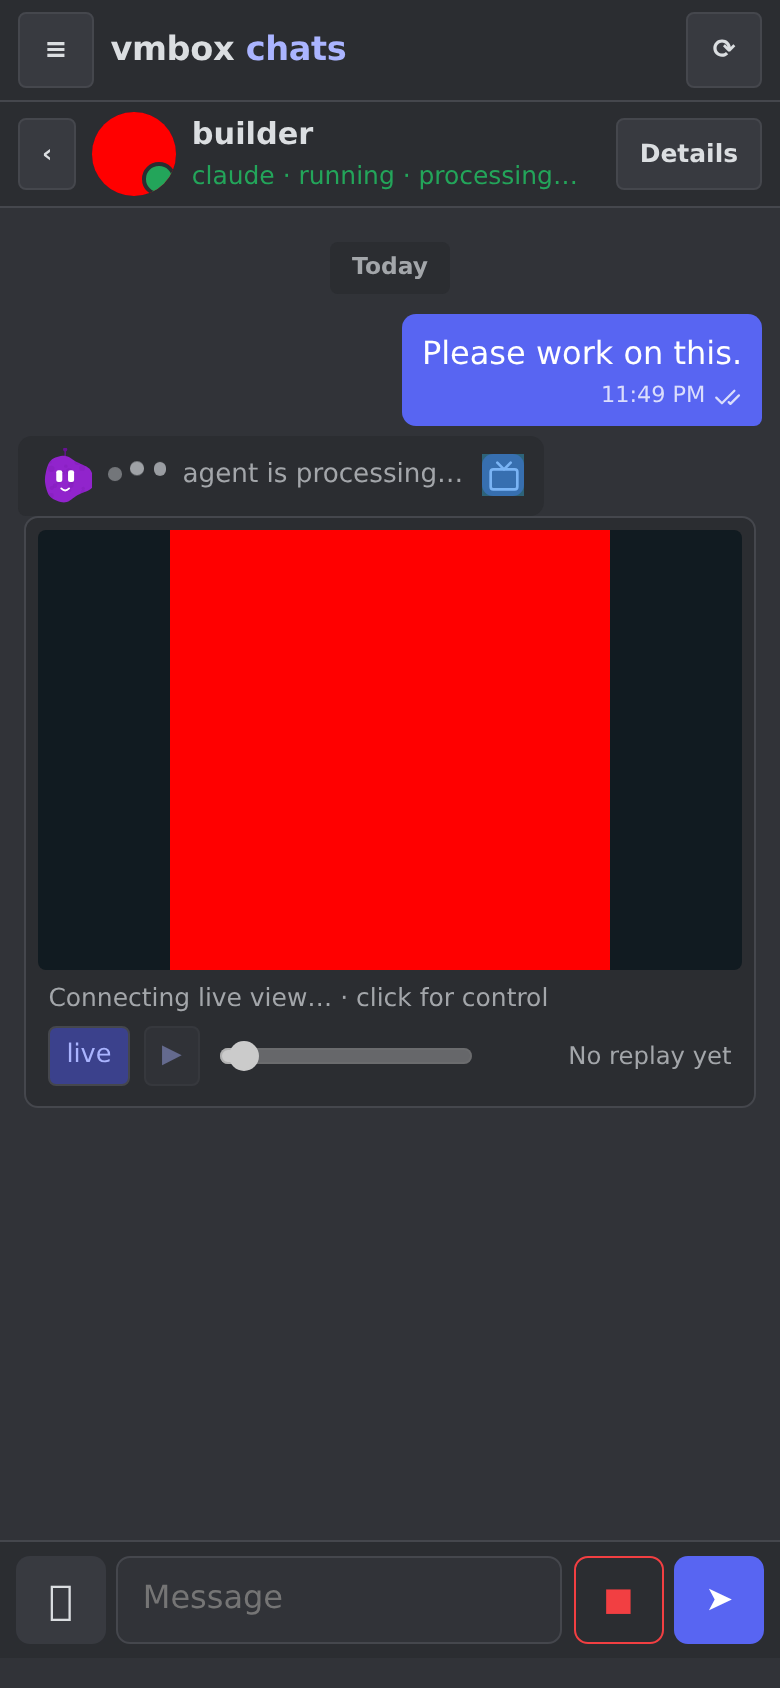
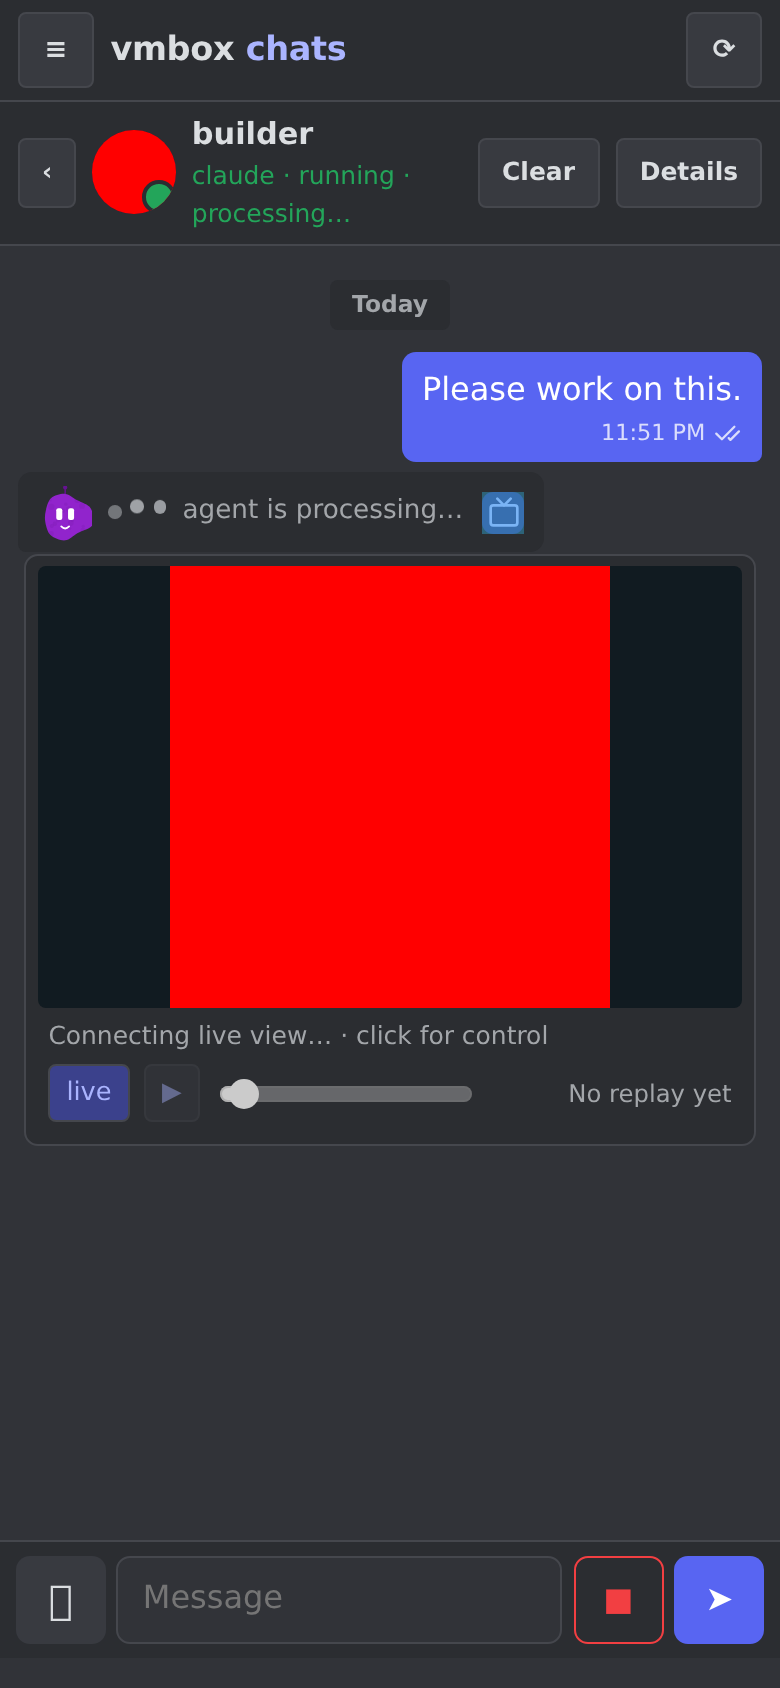
Real label/value lists and a mobile Clear button
Render the Runtime and Activity rows as a single-column definition list
(label left, value right) instead of a grid of cards, and show the Clear
context button next to Details in the phone header.

diff --git a/internal/controller/web/chat.css b/internal/controller/web/chat.css
@@ -263,11 +263,12 @@ body{max-width:none;margin:0;padding:0;height:100%;
 .inspect-quick button:hover,.inspect-quick a:hover{background:var(--accent-soft);border-color:var(--accent)}
 .inspect-block{grid-column:1 / -1;margin-top:.9rem;min-width:0}
 .inspect-block h3{margin:0 0 .45rem;font-size:.7rem;font-weight:800;letter-spacing:.09em;text-transform:uppercase;color:var(--ink-soft)}
-.inspect-rows{display:grid;grid-template-columns:repeat(auto-fit,minmax(10.5rem,1fr));gap:.5rem;margin:0;padding:0}
-.inspect-rows>div{display:flex;flex-direction:column;gap:.15rem;padding:.55rem .65rem;background:var(--surface);
-  border:1px solid var(--line);border-radius:var(--radius);min-width:0}
-.inspect-rows dt{font-size:.68rem;font-weight:700;text-transform:uppercase;letter-spacing:.04em;color:var(--ink-soft)}
-.inspect-rows dd{margin:0;font-size:.95rem;font-weight:700;color:var(--ink);overflow-wrap:anywhere}
+.inspect-rows{display:flex;flex-direction:column;margin:0;padding:0}
+.inspect-rows>div{display:flex;align-items:baseline;justify-content:space-between;gap:1rem;
+  padding:.42rem .1rem;border-bottom:1px solid var(--line);min-width:0}
+.inspect-rows>div:last-child{border-bottom:0}
+.inspect-rows dt{font-size:.72rem;font-weight:600;color:var(--ink-soft);flex:none}
+.inspect-rows dd{margin:0;font-size:.9rem;font-weight:600;color:var(--ink);overflow-wrap:anywhere;text-align:right}
 .inspect-rows dd.ok{color:var(--ok-text)}
 .inspect-rows dd.warn{color:var(--warn-text)}
 .inspect-rows dd.alert{color:var(--danger-text)}
@@ -661,14 +662,14 @@ body{max-width:none;margin:0;padding:0;height:100%;
 @media (max-width:360px){
  .agent-badge{display:none}
 }
-@media (max-width:640px){
- /* on a phone the header keeps only what thumb-reach needs; Control,
-    Workspace and context actions live in the Details/row menus */
- #chat-header #chat-clear-context,#chat-header #chat-control,#chat-header #chat-workspace{display:none}
- #chat-header-avatar .avatar{width:2.6rem;height:2.6rem}
- #chat-header-text strong{font-size:.95rem}
- #chat-info{font-size:.72rem;padding:.3rem .6rem}
-}
+ @media (max-width:640px){
+  /* on a phone the header keeps only what thumb-reach needs; Control and
+     Workspace live in the Details/row menus, but Keep Clear next to Details */
+  #chat-header #chat-control,#chat-header #chat-workspace{display:none}
+  #chat-header-avatar .avatar{width:2.6rem;height:2.6rem}
+  #chat-header-text strong{font-size:.95rem}
+  #chat-info,#chat-clear-context{font-size:.72rem;padding:.3rem .6rem}
+ }
 @media (max-width:899px){
  #chat-header button#chat-workspace{display:none}
 }
@@ -677,7 +678,6 @@ body{max-width:none;margin:0;padding:0;height:100%;
  #inspect-body,#inspect:not(.with-contacts) #inspect-body{grid-template-columns:minmax(0,1fr)}
  #inspect-contacts{border-left:0;border-top:1px solid var(--line);grid-column:1;grid-row:auto}
  #inspect:not(.with-contacts) #inspect-summary{max-width:none}
- .inspect-rows{grid-template-columns:repeat(2,minmax(0,1fr))}
  #inspect-avatar .avatar{width:4.4rem;height:4.4rem}
  #inspect-name{font-size:1.15rem}
 }
